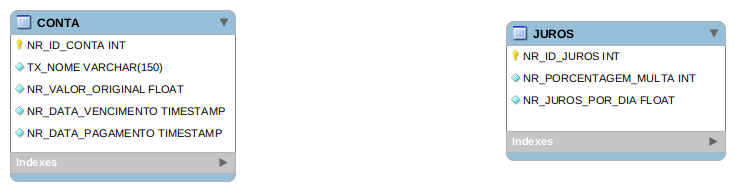
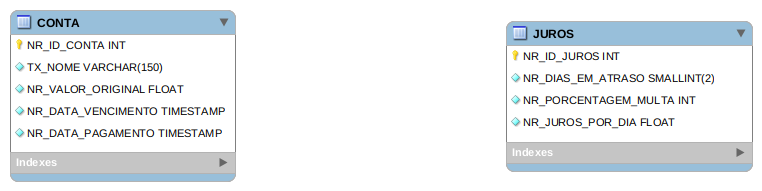
metodos para manipulacao do banco de dados

diff --git a/cadastro_contas/modulos/conta.py b/cadastro_contas/modulos/conta.py
@@ -1,0 +1,151 @@
+from datetime import datetime
+from collections import defaultdict
+
+from cadastro_contas.modulos.juros import calcular_juros
+from cadastro_contas.database.conta import Conta, ListarContas
+from cadastro_contas.modulos.utils import data_e_valida, data_to_timestamp, timestamp_to_data
+from cadastro_contas.excecoes.conta import (
+    ContaInexistenteException, DataInvalidaException, DataVencimentoMaiorDataPagamentoException,
+    TitularInexistenteException
+    )
+
+
+def __montar_conta(conta) -> dict:
+    """
+    Formata conta para apresentação. Calculando dias em atraso e valor corrigido.
+
+    :param conta: Conta a ser formatada.
+    :return: Dicionário da conta formatada.
+    :rtype: list
+    """
+    data_vencimento, data_pagamento = timestamp_to_data(conta.data_vencimento), timestamp_to_data(conta.data_pagamento)
+    dias_atrasados = dias_atraso(data_vencimento=data_vencimento, data_pagamento=data_pagamento)
+    return {
+        "nome": conta.nome,
+        "valor_original": conta.valor_original,
+        "dias_atraso": dias_atrasados,
+        "valor_corrigido": calcular_juros(dias_em_atraso=dias_atrasados,
+                                          valor_original=conta.valor_original)
+        if dias_atrasados >= 1 else conta.valor_original,
+        "data_vencimento": data_vencimento,
+        "data_pagamento": data_pagamento
+    }
+
+
+def dias_atraso(*, data_vencimento: str, data_pagamento: str) -> int:
+    """
+    Calcula a quantidade de dias que uma conta está atrasada.
+
+    :param str data_vencimento: Data de vencimento da conta, no formato dd/mm/yyyy.
+    :param str data_pagamento: Data de pagamento da conta, no formato dd/mm/yyyy.
+    :raises DataVencimentoMaiorDataPagamentoException: Se a data de vencimento for maior que a data de pagamento.
+    :raises DataInvalidaException: Se uma das duas datas tiver um formato inválido.
+    :return: Quantidade de dias que a conta está em atraso.
+    :rtype: int
+    """
+    data_vencimento, data_pagamento = data_to_timestamp(data_vencimento), data_to_timestamp(data_pagamento)
+    if data_vencimento > data_pagamento:
+        raise DataVencimentoMaiorDataPagamentoException(data_vencimento=data_vencimento, data_pagamento=data_pagamento)
+    if data_e_valida(data_vencimento):
+        if data_e_valida(data_pagamento):
+            d1 = datetime.strptime(data_vencimento, "%d/%m/%Y")
+            d2 = datetime.strptime(data_pagamento, "%d/%m/%Y")
+            return (d2 - d1).days
+        else:
+            raise DataInvalidaException(data=data_pagamento)
+    else:
+        raise DataInvalidaException(data=data_vencimento)
+
+
+def inserir(*, nome: str, valor_original: float, data_vencimento: str,
+            data_pagamento: str):
+    """
+    Insere uma conta no banco de dados.
+
+    :param str nome: Titular da conta.
+    :param float valor_original: Valor monetário da conta, sem juros.
+    :param str data_vencimento: Data de vencimento da conta, no formato dd/mm/yyyy.
+    :param str data_pagamento: Data de pagamento da conta, no formato dd/mm/yyyy.
+    :raises DataVencimentoMaiorDataPagamentoException: Se a data de vencimento for maior que a data de pagamento.
+    :return: True se a operação for exeutada com sucesso, False caso contrário.
+    :rtype: bool
+    """
+    data_vencimento, data_pagamento = data_to_timestamp(data_vencimento), data_to_timestamp(data_pagamento)
+    if data_vencimento > data_pagamento:
+        raise DataVencimentoMaiorDataPagamentoException(data_vencimento=data_vencimento,
+                                                        data_pagamento=data_pagamento)
+    insercao = Conta(nome=nome, valor_original=valor_original, data_vencimento=data_vencimento,
+                     data_pagamento=data_pagamento)
+    return True if insercao else False
+
+
+def atualizar(*, id_conta: int, nome: str = None, valor_original: float = None,
+              data_vencimento: str = None, data_pagamento: str = None):
+    """
+    Atualiza as informações de uma conta no banco de dados.
+
+    :param int id_conta: Identificador da conta a ser atulizada.
+    :param str nome: Titular da conta.
+    :param float valor_original: Valor monetário da conta.
+    :param str data_vencimento: Data de vencimento da conta, no formato dd/mm/yyyy
+    :param str data_pagamento: Data de pagamento da conta, no formato dd/mm/yyyy
+    :raises ContaInexistenteException: Se a conta informada não for encontrada no banco de dados.
+    :raises DataVencimentoMaiorDataPagamentoException: Se a data de vencimento for maior que a data de pagamento.
+    :return: True se a conta tiver sido atualizado com sucesso, False caso contrário.
+    :rtype: bool
+    """
+    if Conta(id_conta=id_conta).existe():
+        data_vencimento, data_pagamento = data_to_timestamp(data_vencimento), data_to_timestamp(data_pagamento)
+        if data_vencimento > data_pagamento:
+            raise DataVencimentoMaiorDataPagamentoException(data_vencimento=data_vencimento,
+                                                            data_pagamento=data_pagamento)
+        return Conta(id_conta=id_conta, nome=nome, valor_original=valor_original,
+                     data_vencimento=data_vencimento, data_pagamento=data_pagamento)
+    else:
+        raise ContaInexistenteException(404, id_conta)
+
+
+def deletar(*, id_conta: int):
+    """
+    Excluí uma conta do banco de dados.
+
+    :param int id_conta: Identificador da conta.
+    :raises ContaInexistenteException: Se a conta informada não for encontrada no banco de dados.
+    :return: True se a operação for executada com sucesso, False caso contrário.
+    :rtype: bool
+    """
+    if Conta(id_conta=id_conta).existe():
+        return Conta(id_conta=id_conta).deletar()
+    else:
+        raise ContaInexistenteException(404, id_conta)
+
+
+def listar_contas_titular(*, nome: str) -> list:
+    """
+    Lista todas as contas de um usuário, a partir do seu nome.
+
+    :param str nome: Titular da(s) conta(s).
+    :raises TitularInexistenteException: Se o titular da conta informada não existir.
+    :return: Contas do titular informado.
+    :rtype: list
+    """
+    if Conta(nome=nome).existe():
+        return [__montar_conta(conta) for conta in ListarContas(nome=nome).listar_contas_titular()]
+    else:
+        raise TitularInexistenteException(404, nome)
+
+
+def listar_todos(quantidade: int, pagina: int) -> dict:
+    """
+    separar as contas por titular, devolvendo o resultado em ordem alfabetica
+    Retorna todas as contas disponibilizadas no banco de dados, paginando o resultado.
+
+    :param int quantidade: Quantidade de registros por bloco de paginação.
+    :param int pagina: Bloco (página) da paginação.
+    :return: Dicionário ordenado por titular de todas as contas disponíveis no
+        banco de dados.
+    :rtpe: dict
+    """
+    contas_titulares = defaultdict(list)
+    total, contas = ListarContas().listar_todos(quantidade=quantidade, pagina=pagina)
+    return total, [contas_titulares[conta.nome].append(__montar_conta(conta)) for conta in contas]

diff --git a/cadastro_contas/database/juros.py b/cadastro_contas/database/juros.py
@@ -2,15 +2,20 @@ from cadastro_contas.database import campos_obrigatorios, DataBase
 
 
 class Juros(DataBase):
-    def __init__(self, id_juros: int = None, porcentagem_multa: int = None,
-                 juros_por_dia: float = None):
+    def __init__(self, id_juros: int = None, dias_em_atraso: int = None,
+                 porcentagem_multa: int = None, juros_por_dia: float = None):
         self.__id_juros = id_juros
+        self.__dias_em_atraso = dias_em_atraso
         self.__porcentagem_multa = porcentagem_multa
         self.__juros_por_dia = juros_por_dia
 
     @property
     def id_juros(self):
         return self.__id_juros
+
+    @property
+    def dias_atraso(self):
+        return self.__dias_em_atraso
 
     @property
     def porcentagem_multa(self):
@@ -33,18 +38,19 @@ class Juros(DataBase):
     def dict(self):
         return {key.replace("_Juros__", ""): value for key, value in self.__dict__.items()}
 
-    @campos_obrigatorios(["porcentagem_multa", "juros_por_dia"])
+    @campos_obrigatorios(["dias_em_atraso", "porcentagem_multa", "juros_por_dia"])
     def inserir(self):
         """
         Insere uma nova regra de juros no banco de dados.
 
+        :param int dias_em_atraso: Quantidade de dias em atraso nos quais a regra se aplica.
         :param int porcentagem_multa: Porcentagem inteira de juros aplicáveis.
         :param float juros_por_dia: Porcentagem de juros aplicáveis por dia de atraso.
         :return: True se a operação for exeutada com sucesso, False caso contrário.
         :rtype: bool
         """
-        self.query_string = """INSERT INTO JUROS (PORCENTAGEM_MULTA, JUROS_POR_DIA)
-            VALUES (%(porcentagem_multa)s, %(juros_por_dia)s)"""
+        self.query_string = """INSERT INTO JUROS (DIAS_EM_ATRASO, PORCENTAGEM_MULTA, JUROS_POR_DIA)
+            VALUES (%(dias_em_atraso)s, %(porcentagem_multa)s, %(juros_por_dia)s)"""
         return True if self.insert() else False
 
     @campos_obrigatorios(["id_juros"])
@@ -53,12 +59,15 @@ class Juros(DataBase):
         Atualiza uma regra de juros no banco de dados.
 
         :param int id_juros: Identificador no banco de dados do juros.
+        :param int dias_em_atraso: Quantidade de dias em atraso nos quais a regra se aplica.
         :param int porcentagem_multa: Porcentagem inteira de juros aplicáveis.
         :param float juros_por_dia: Porcentagem de juros aplicáveis por dia de atraso.
         :return: True se a operação for exeutada com sucesso, False caso contrário.
         :rtype: bool
         """
         self.query_string = ""
+        if self.__dias_em_atraso:
+            self.query_string = "UPDATE JUROS SET DIAS_EM_ATRASO = %(dias_em_atraso)s"
         if self.__porcentagem_multa:
             self.query_string = "UPDATE JUROS SET PORCENTAGEM_MULTA = %(porcentagem_multa)s"
         if self.__juros_por_dia:
@@ -85,7 +94,22 @@ class Juros(DataBase):
 
         :param int id_juros: Identificador no banco de dados do juros.
         :return: Regra de juros do identificador informado.
-        :rtype: dict
+        :rtype: objeto :class:`database.juros.Juros` ou None
         """
         self.query_string = "SELECT * FROM JUROS WHERE JUROS.ID_JUROS = %(id_juros)s"
-        return self.find_one()
+        regra = self.find_one()
+        return Juros(**dict(regra)) if regra else None
+
+    @campos_obrigatorios(["dias_em_atraso"])
+    def consultar_regra(self):
+        """
+        Recupera uma regra de juros do banco de dados a partir da quantidade de dias em atraso.
+
+        :param int dias_em_atraso: Quantidade de dias em atraso nos quais a regra se aplica.
+        :return: Regra de juros dos dias em atraso informado.
+        :rtype: objeto :class:`database.juros.Juros` ou None
+        """
+        self.query_string = """SELECT DIAS_EM_ATRASO, PORCENTAGEM_MULTA, JUROS_POR_DIA
+            FROM JUROS WHERE JUROS.DIAS_EM_ATRASO = %(dias_em_atraso)s"""
+        regra = self.find_one()
+        return Juros(**dict(regra)) if regra else None

diff --git a/cadastro_contas/database/conta.py b/cadastro_contas/database/conta.py
@@ -75,16 +75,21 @@ class Conta(DataBase):
         self.query_string += " WHERE CONTA.ID_CONTA = %(id_conta)s"
         return True if self.insert() else False
 
-    @campos_obrigatorios(["id_conta"])
+    @campos_obrigatorios(["id_conta", "nome"])
     def existe(self):
         """
         Verifica se uma conta existe no banco de dados.
 
         :param int id_conta: Identificador da conta.
+        :param str nome: Titular da conta.
         :return: True se a conta for encontrada, False caso contrário.
         :rtype: bool
         """
-        self.query_string = "SELECT COUNT(*) FROM CONTA WHERE CONTA.ID_CONTA = %(id_conta)s"
+        self.query_string = ""
+        if self.__id_conta:
+            self.query_string = "SELECT COUNT(*) FROM CONTA WHERE CONTA.ID_CONTA = %(id_conta)s"
+        if self.__nome:
+            self.query_string = "SELECT COUNT(*) FROM CONTA WHERE CONTA.NOME = %(nome)s"
         return True if self.find_one()[0] else False
 
     @campos_obrigatorios(["id_conta"])
@@ -144,24 +149,27 @@ class ListarContas(DataBase):
         return {key.replace("_ListarContas__", ""): value for key, value in self.__dict__.items()}
 
     @campos_obrigatorios(["nome"])
-    def listar_um(self) -> list:
+    def listar_contas_titular(self) -> list:
         """
         Lista as contas de um usuário.
 
         :param str nome: Titular da conta.
-        :return: Contas atribuídas ao usuário
+        :return: Lista de objetos :class:`database.conta.Conta`, em que cada
+            objeto é uma conta atribuída ao titular encontrado no banco de dados.
         :rtype: list
         """
         self.query_string = "SELECT * FROM CONTA WHERE CONTA.NOME = %(nome)s"
         return [ListarContas(**dict(conta)) for conta in self.find_all()]
 
-    def listar_todos(self, pagina: int, quantidade: int):
+    def listar_todos(self, quantidade: int, pagina: int):
         """
-        Lista todas as contas da base.
+        Lista todas as contas da base, paginando o resultado.
 
         :param int quantidade: Quantidade de registros por bloco de paginação.
         :param int pagina: Bloco (página) da paginação.
-        :return: Total de contas e contas a pagar da base.
+        :return: Total de contas e contas a pagar da base e lista de objetos
+            :class:`database.conta.Conta`, em que cada objeto é uma conta encontrada
+            no banco de dados.
         :rtype: tuple
         """
         self.__offset = (pagina-1)*quantidade

diff --git a/cadastro_contas/excecoes/conta.py b/cadastro_contas/excecoes/conta.py
@@ -1,0 +1,30 @@
+from cadastro_contas.excecoes import CadastroContasException
+
+
+class ContaInexistenteException(CadastroContasException):
+    def __init__(self, status_code: int, id_conta: int = None):
+        self.status_code = status_code
+        self.message = f"O id {id_conta} da conta não existe"
+        super().__init__(self.status_code, self.message)
+
+
+class TitularInexistenteException(CadastroContasException):
+    def __init__(self, status_code: int, nome: str):
+        self.status_code = status_code
+        self.message = f"O titular {nome} da conta não existe"
+        super().__init__(self.status_code, self.message)
+
+
+class DataInvalidaException(CadastroContasException):
+    def __init__(self, data: str, status_code: int = 422):
+        self.status_code = status_code
+        mensagem = f"A data {data} é inválida"
+        super().__init__(self.status_code, mensagem)
+
+
+class DataVencimentoMaiorDataPagamentoException(CadastroContasException):
+    def __init__(self, data_vencimento: str, data_pagamento: str, status_code: int = 416):
+        self.status_code = status_code
+        mensagem = f"""A data de vencimento {data_vencimento} não pode ser maior
+        que a data de pagamento {data_pagamento}!"""
+        super().__init__(self.status_code, mensagem)

diff --git a/cadastro_contas/modulos/juros.py b/cadastro_contas/modulos/juros.py
@@ -1,0 +1,31 @@
+from cadastro_contas.database.juros import Juros
+from cadastro_contas.excecoes.conta import DataInvalidaException
+
+
+def calcular_juros(*, dias_em_atraso: int, valor_original: int):
+    """
+    Calcula o valor corrigido com juros de uma conta em atraso.
+
+    :param int dias_em_atraso: Quantidade de dias que a conta está atrasada.
+    :param int valor_original: Valor original da conta.
+    :raises DataInvalidaException: Se a data informada for inválida, isto é, não
+        existe regra para a quantidade de dias em atraso ou não é do tipo inteiro.
+    :return: Valor da conta em atraso.
+    :rtype: float
+    """
+    valor_corrigido = 0.0
+    if dias_em_atraso >= 1 and type(dias_em_atraso) is int:
+        regra = Juros(dias_em_atraso=dias_em_atraso).juros_por_dia()
+        valor_corrigido = (valor_original * regra.porcentagem_multa/100) + \
+                          ((dias_em_atraso * regra.juros_por_dia) * valor_original) + valor_original
+        return "R${:,.2f}".format(valor_corrigido)
+    else:
+        raise DataInvalidaException(dias_em_atraso)
+
+
+def inserir():
+    pass
+
+
+def consultar_juros(*, dias_em_atraso: int):
+    pass

diff --git a/cadastro_contas/modulos/utils.py b/cadastro_contas/modulos/utils.py
@@ -1,0 +1,20 @@
+import re
+from datetime import datetime
+
+from cadastro_contas.config import VALIDA_DATA_RE
+from cadastro_contas.excecoes.conta import DataInvalidaException
+
+
+def data_e_valida(data: str):
+    return True if re.compile(VALIDA_DATA_RE).search(data) else False
+
+
+def data_to_timestamp(data: str):
+    if data_e_valida(data):
+        return datetime.strptime(data, "%d/%m/%Y").timestamp()
+    else:
+        raise DataInvalidaException(data=data)
+
+
+def timestamp_to_data(data: float):
+    return datetime.fromtimestamp(data).strftime("%d/%m/%Y")

diff --git a/cadastro_contas/excecoes/juros.py b/cadastro_contas/excecoes/juros.py
@@ -1,0 +1,8 @@
+from cadastro_contas.excecoes import CadastroContasException
+
+
+class ContaInexistenteException(CadastroContasException):
+    def __init__(self, status_code: int, id_conta: int = None):
+        self.status_code = status_code
+        self.message = f"O id {id_conta} da conta não existe"
+        super().__init__(self.status_code, self.message)

diff --git a/cadastro_contas/config.py b/cadastro_contas/config.py
@@ -6,3 +6,5 @@ PGSQL_HOST = os.environ.get("PGSQL_HOST", "db_cadastro_contas")
 PGSQL_PASS = os.environ.get("PGSQL_PASS", "contas")
 PGSQL_USR = os.environ.get("PGSQL_USR", "contas")
 PGSQL_PORT = os.environ.get("PGSQL_PORT", "5432")
+
+VALIDA_DATA_RE = r'^([0-2][0-9]|(3)[0-1])(\/)(((0)[0-9])|((1)[0-2]))(\/)\d{4}$'
